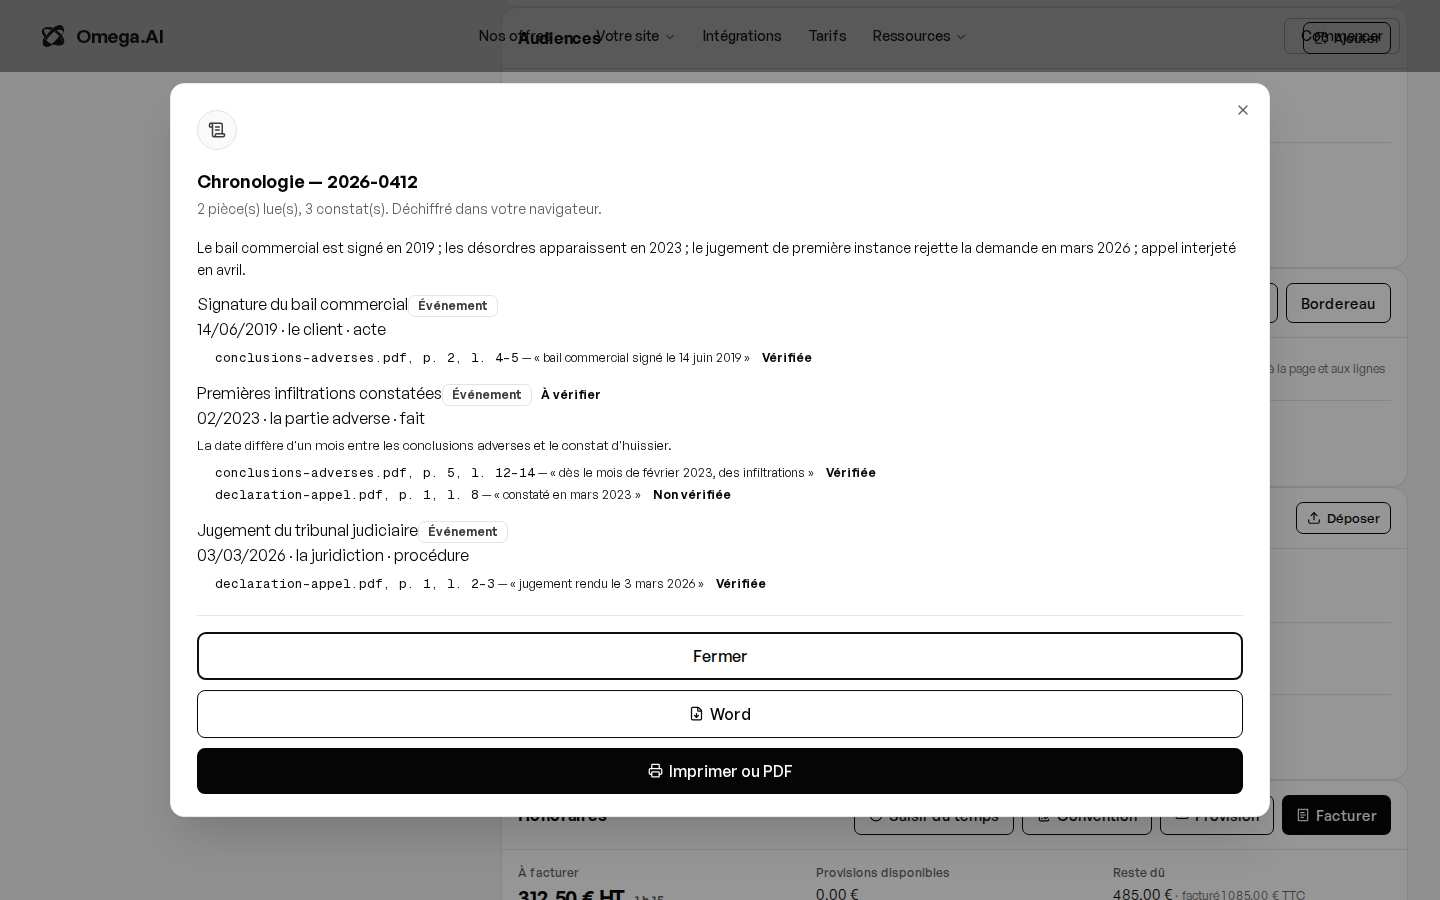
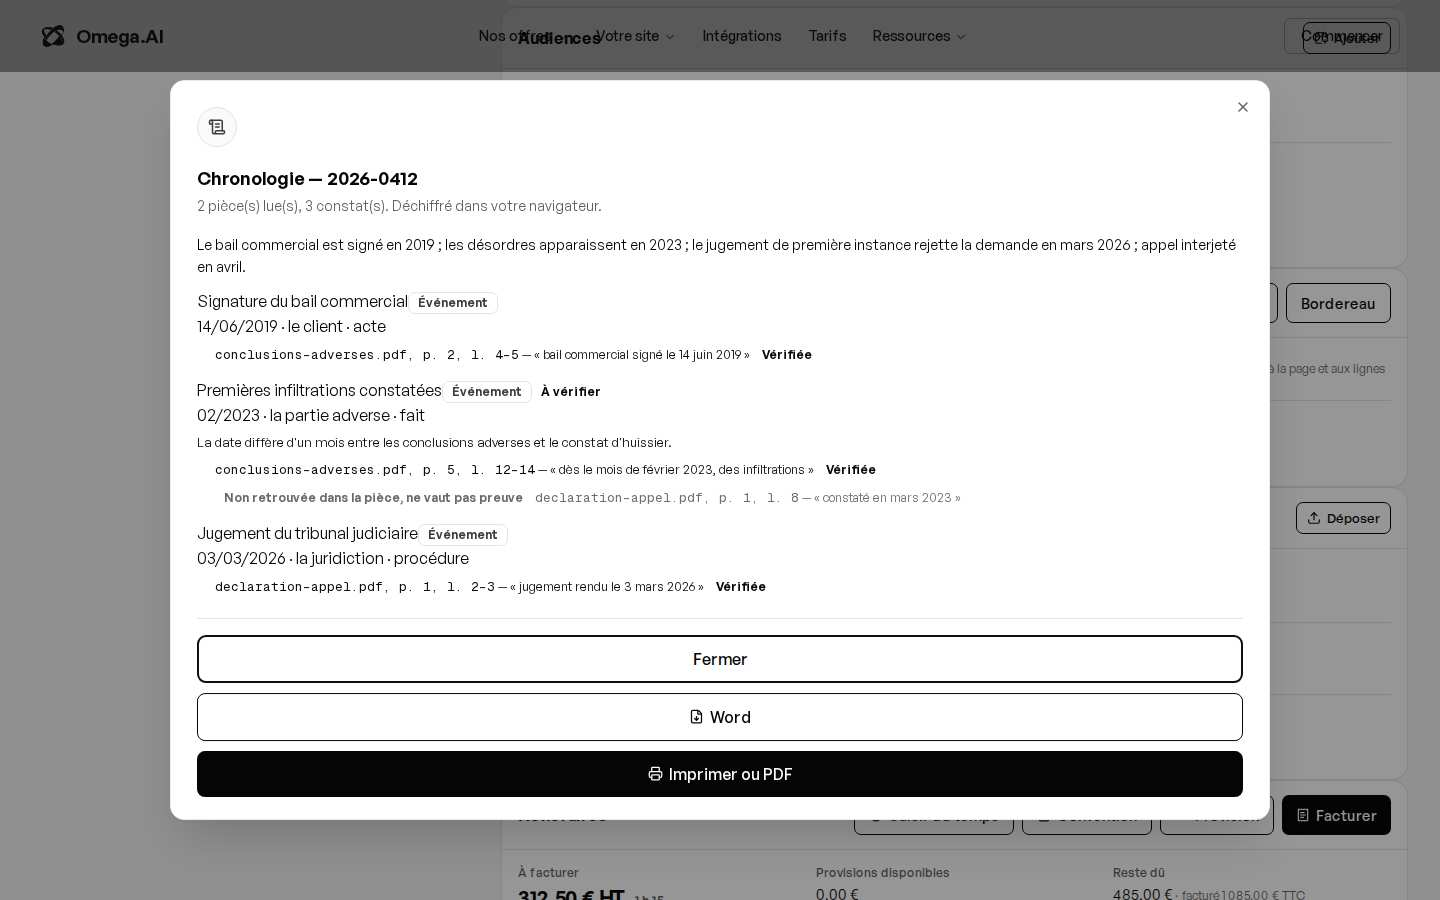
Tamila : une citation non retrouvée dans la pièce est mise à part, elle ne vaut pas preuve
Claude-Session: https://claude.ai/code/session_01ACKfUXKSgnD521nunHBY1w

diff --git a/components/espace/tamila/AnalysesTamila.tsx b/components/espace/tamila/AnalysesTamila.tsx
@@ -199,13 +199,22 @@ export default function AnalysesTamila({ dossier: d, source, cle, pieces, clair,
                         {meta ? <div className="tam-ligne-meta"><span>{meta}</span></div> : null}
                         {c.texte ? <p className="tam-constat-texte">{c.texte}</p> : null}
                         <ul className="tam-citations">
-                          {c.citations.map((x, j) => (
+                          {c.citations.filter((x) => x.verifiee).map((x, j) => (
                             <li key={j}>
-                              <span className="esp-mono">{nomPiece(x.piece)}, p. {x.page}{lignesDe(x) ? `, ${lignesDe(x)}` : ""}</span> — « {x.extrait} »{" "}
-                              {x.verifiee ? <Pastille teinte="vert">Vérifiée</Pastille> : <Pastille teinte="ambre">Non vérifiée</Pastille>}
+                              <span className="esp-mono">{nomPiece(x.piece)}, p. {x.page}{lignesDe(x) ? `, ${lignesDe(x)}` : ""}</span> — « {x.extrait} » <Pastille teinte="vert">Vérifiée</Pastille>
                             </li>
                           ))}
                         </ul>
+                        {c.citations.some((x) => !x.verifiee) ? (
+                          <ul className="tam-citations tam-citations--doute" aria-label="Citations non retrouvées">
+                            {c.citations.filter((x) => !x.verifiee).map((x, j) => (
+                              <li key={j}>
+                                <Pastille teinte="ambre">Non retrouvée dans la pièce, ne vaut pas preuve</Pastille>{" "}
+                                <span className="esp-mono">{nomPiece(x.piece)}, p. {x.page}{lignesDe(x) ? `, ${lignesDe(x)}` : ""}</span> — « {x.extrait} »
+                              </li>
+                            ))}
+                          </ul>
+                        ) : null}
                       </div>
                     );
                   })}

diff --git a/components/espace/tamila/analyses.ts b/components/espace/tamila/analyses.ts
@@ -102,8 +102,8 @@ export function htmlAnalyse(r: ResultatAnalyse, nomPiece: (id: string) => string
     : r.constats
         .map((c) => {
           const meta = resumeDonnees(r.type, c.donnees);
-          const cites = c.citations
-            .map((x) => `<li>${echapper(nomPiece(x.piece))}, p. ${x.page}${lignesDe(x) ? `, ${lignesDe(x)}` : ""} : « ${echapper(x.extrait)} »${x.verifiee ? "" : " <i>(citation non vérifiée)</i>"}</li>`)
+          const cites = [...c.citations].sort((a, b) => Number(b.verifiee) - Number(a.verifiee))
+            .map((x) => `<li${x.verifiee ? "" : ' style="color:#777"'}>${echapper(nomPiece(x.piece))}, p. ${x.page}${lignesDe(x) ? `, ${lignesDe(x)}` : ""} : « ${echapper(x.extrait)} »${x.verifiee ? "" : " <i>(non retrouvée dans la pièce : ne vaut pas preuve)</i>"}</li>`)
             .join("");
           return `<h3 style="font-size:14px;margin:16px 0 4px">${echapper(c.titre)}${c.gravite !== "info" ? ` <span style="color:${c.gravite === "critique" ? "#b42318" : "#9a6700"}">(${c.gravite})</span>` : ""}</h3>${meta ? `<div style="color:#555;font-size:12px">${echapper(meta)}</div>` : ""}${c.texte ? `<p style="margin:4px 0">${echapper(c.texte)}</p>` : ""}${cites ? `<ul style="margin:4px 0 0 18px;font-size:12px">${cites}</ul>` : ""}`;
         })

diff --git a/components/espace/tamila/tamila.css b/components/espace/tamila/tamila.css
@@ -352,3 +352,6 @@
   opacity: 0;
   pointer-events: none;
 }
+.tam-citations--doute {
+  color: #6b6b66;
+}
